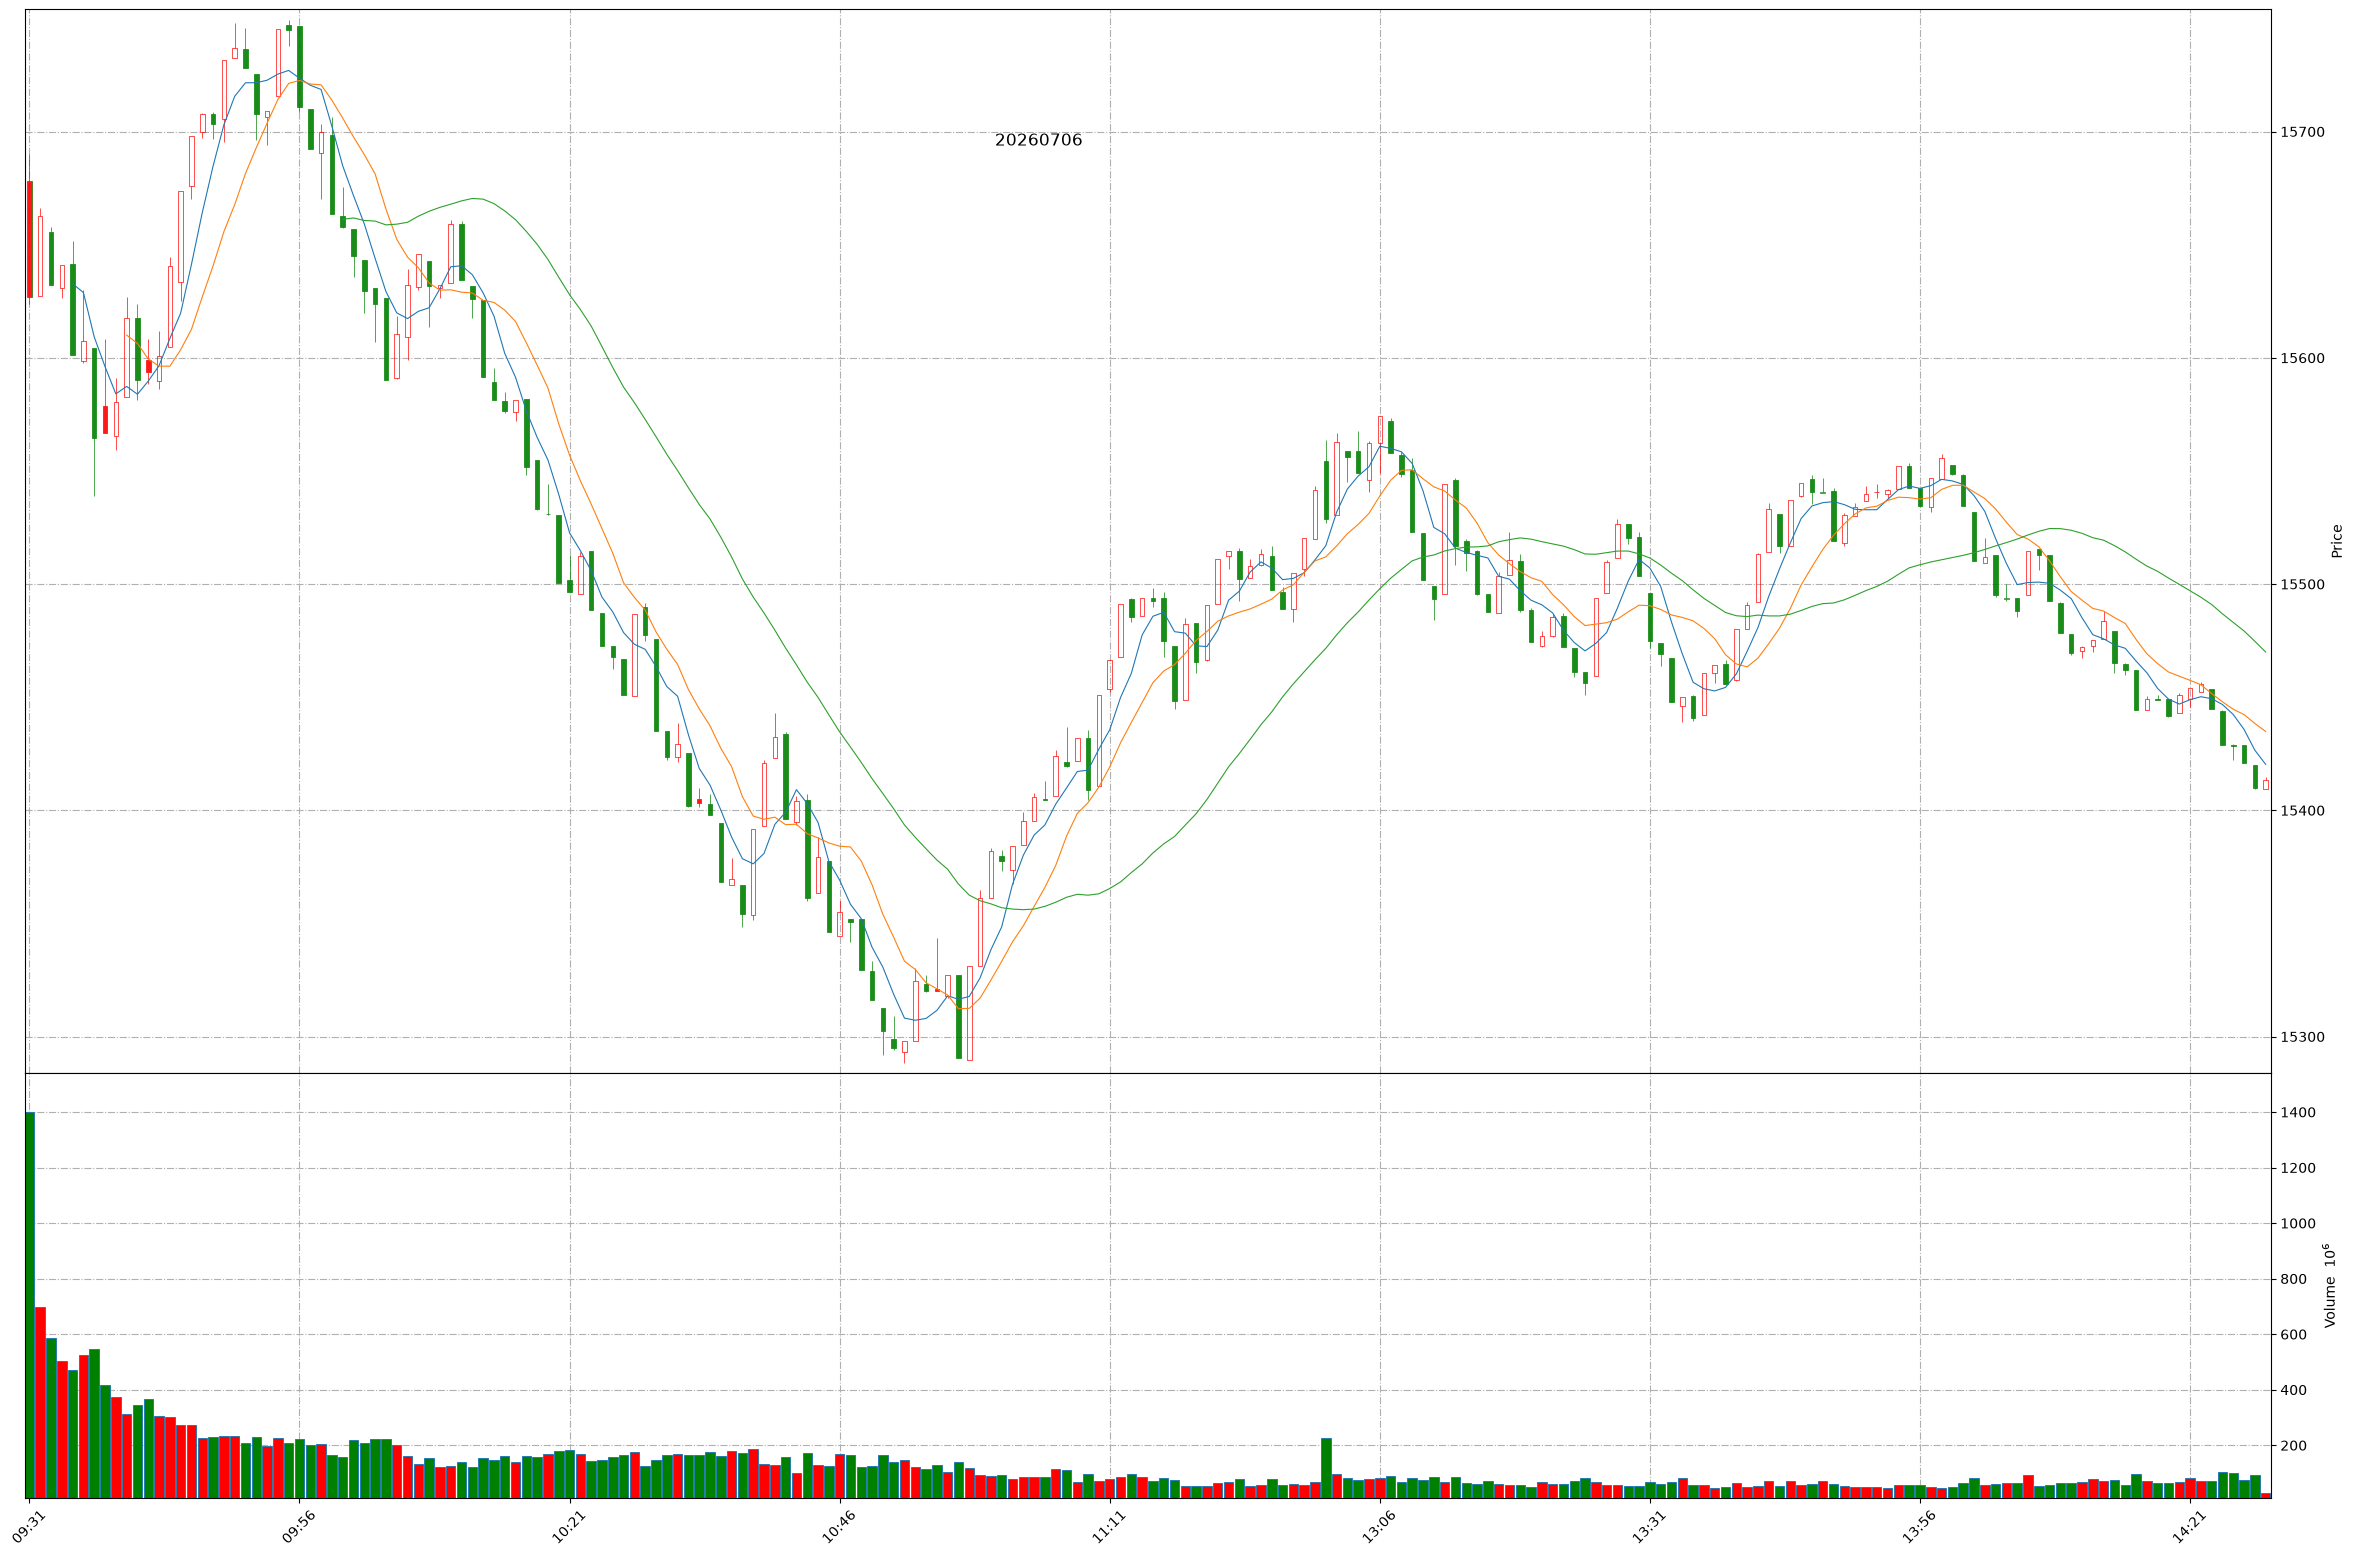
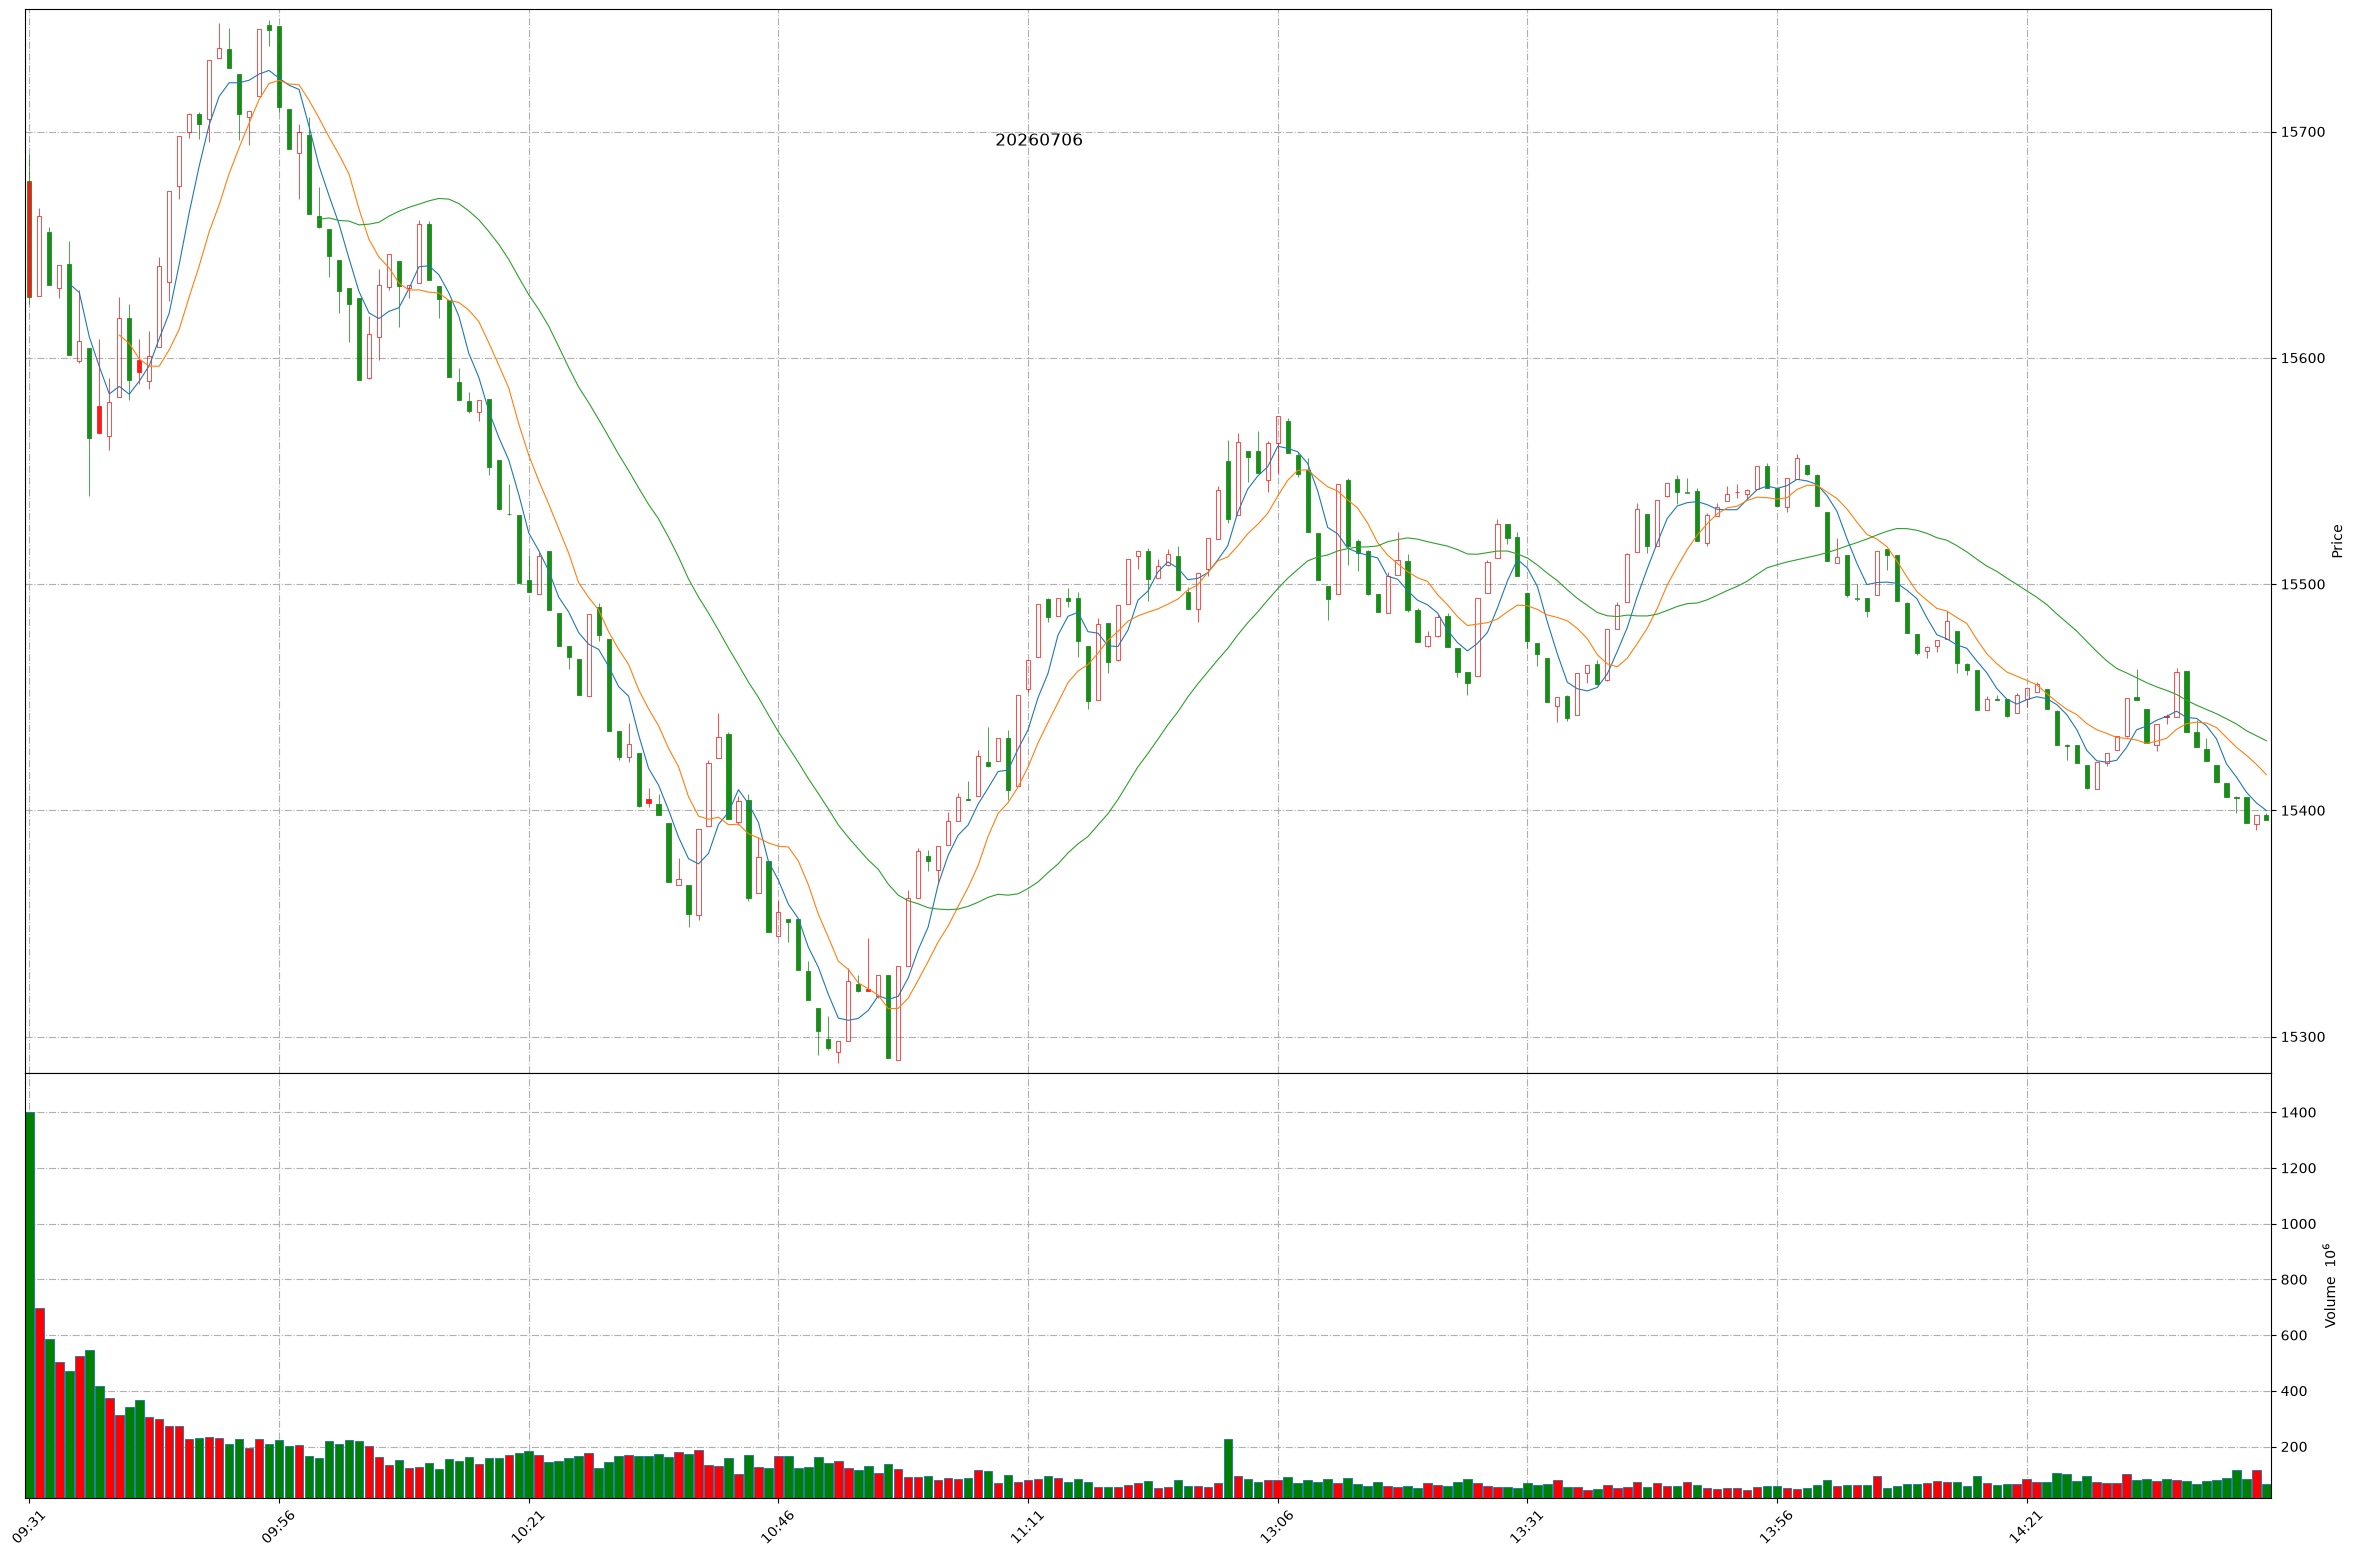
Github action update at 2026-07-06 14:45:03.

diff --git a/README.md b/README.md
@@ -1,11 +1,11 @@
 
 # Daily-A-share-market-quotes 每日 A 股指数（5min 更新）- 20260706
 
-### 上证指数 20260706 14:27
+### 上证指数 20260706 14:45
 ![](./fig/2026/7/20260706-sh000001.png)
 
-### 深证成指 20260706 14:27
+### 深证成指 20260706 14:45
 ![](./fig/2026/7/20260706-sz399001.png)
 
-### 北证50 20260706 14:27
+### 北证50 20260706 14:45
 ![](./fig/2026/7/20260706-bj899050.png)
